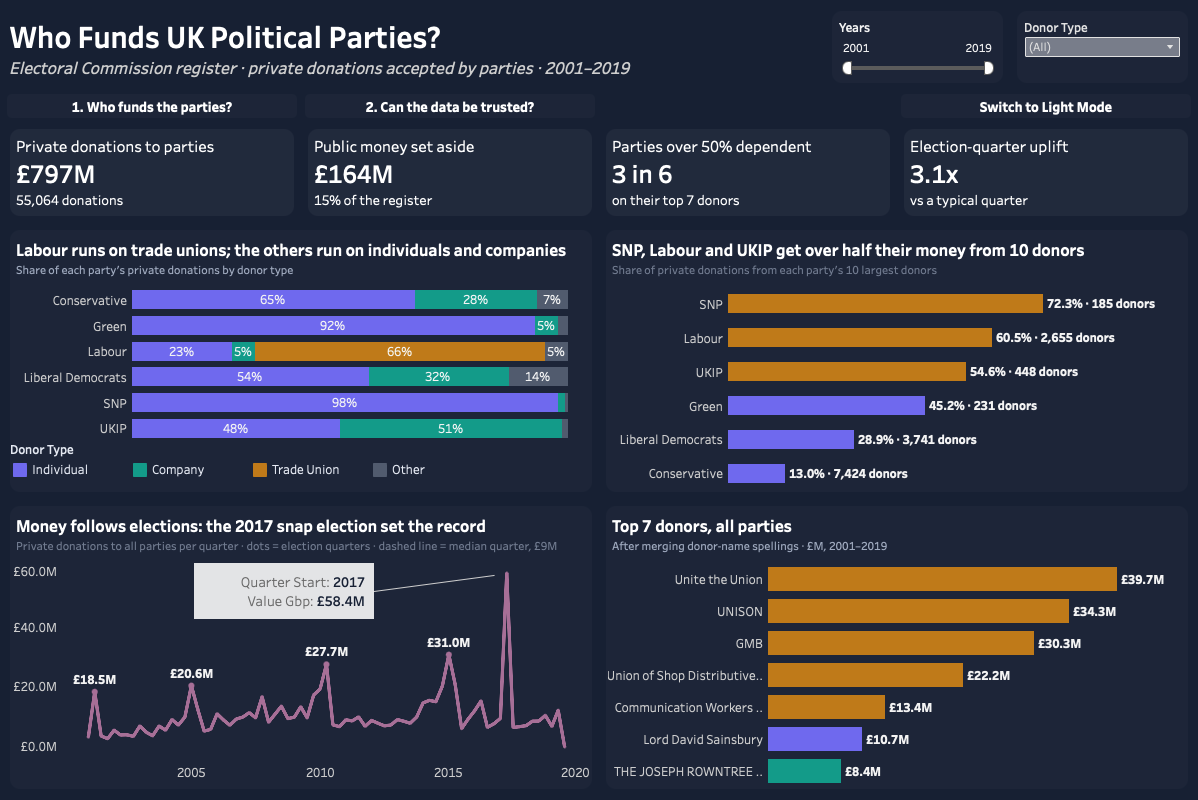
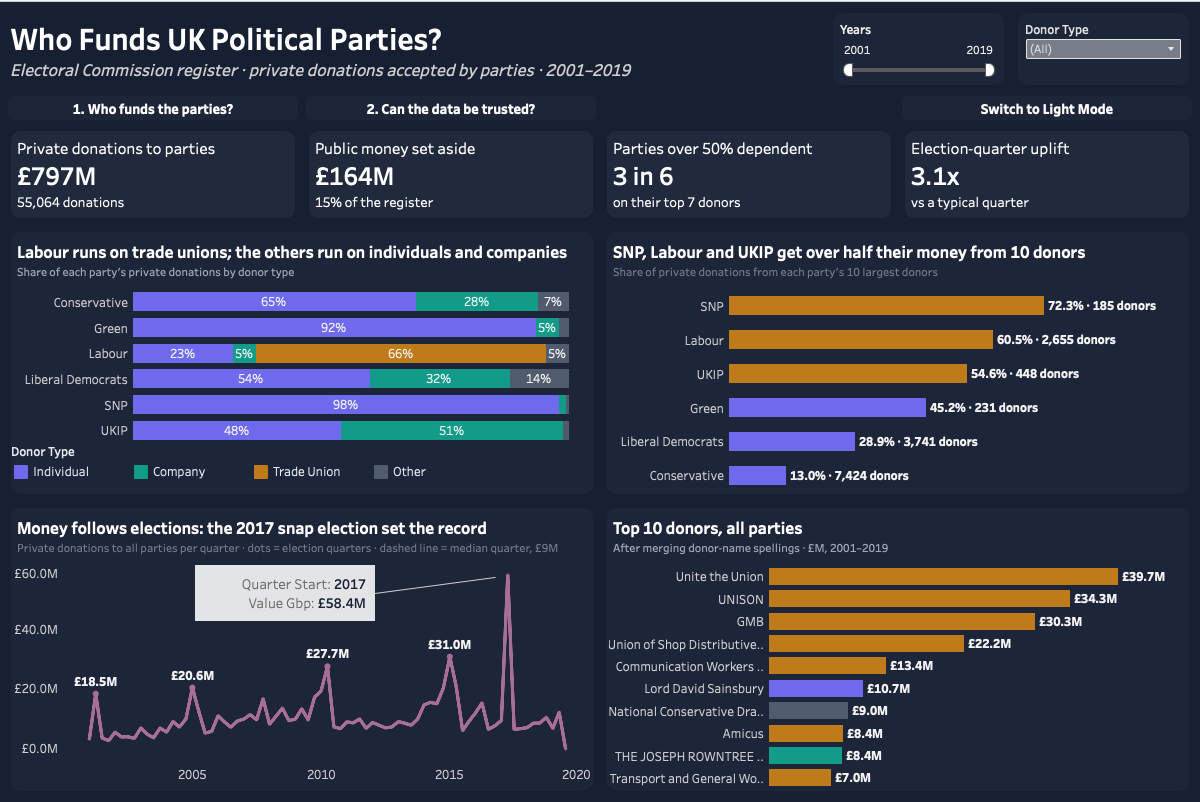
Final dashboard screenshots, dark and light

diff --git a/README.md b/README.md
@@ -212,6 +212,14 @@ Two interactive dashboards on [Tableau Public](https://public.tableau.com/app/pr
 - **Big numbers first, detail below**, on a fixed 1200 × 800 layout.
 - **One data source**, so the click-to-filter interaction needs no blending.
 - **Dark and light versions** of both dashboards, linked by a toggle button, so the report works on screen and in print.
+
+<details>
+<summary><b>Light mode</b> (click to expand)</summary>
+
+![Who funds UK political parties, light mode](tableau/screenshots/1_funding_light.png)
+
+![Can the donations data be trusted, light mode](tableau/screenshots/2_trust_light.png)
+</details>
 - Planned first as a mockup ([`tableau/dashboard_blueprint.html`](tableau/dashboard_blueprint.html)) and built from a step-by-step guide ([`tableau/build_walkthrough.html`](tableau/build_walkthrough.html)). Download either file and open it in a browser.
 
 ## How to run
